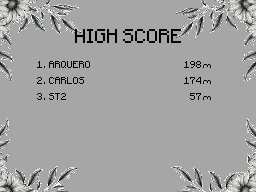
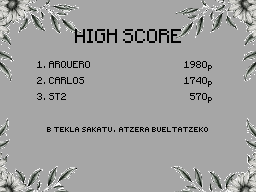
pantallas modificadas, pero falta que aparezcan en el juego y añadir las acciones de los botones (pa' poder pasar de una pantalla a otra)

diff --git a/src/initialize.js b/src/initialize.js
@@ -77,7 +77,7 @@ function loadAssets()
 
     new_game = new Image();
     new_game.addEventListener("load", loadHandler, false);
-    new_game.src = "./images/pantalla_inicio.png";  //Ojo que la ruta es relativa al HTML, no al JS
+    new_game.src = "./images/NEW_GAME.png";  //Ojo que la ruta es relativa al HTML, no al JS
     globals.tileMap.push(new_game);
     globals.assetsToLoad.push(new_game);
 
@@ -106,7 +106,7 @@ function loadHandler(){
         console.log("Assets finished loading");
 
         //Start the game
-        globals.gameState = Game.PLAYING;
+        globals.gameState = Game.NEW_GAME;
     }
 }
 
@@ -284,7 +284,7 @@ function initPlayer()
     const hitBox2 = new HitBox(10, 12, 3, 3)
 
     //creamos nuestro sprite
-    const player = new Sprite(SpriteID.PLAYER, State.LEFT, 180, 130, imageSet, frames, physics, hitBox, hitBox2, 0);
+    const player = new Sprite(SpriteID.PLAYER, State.LEFT, 235, 130, imageSet, frames, physics, hitBox, hitBox2, 0);
 
     //añadimos el player al array de sprites
     globals.sprites.push(player);
